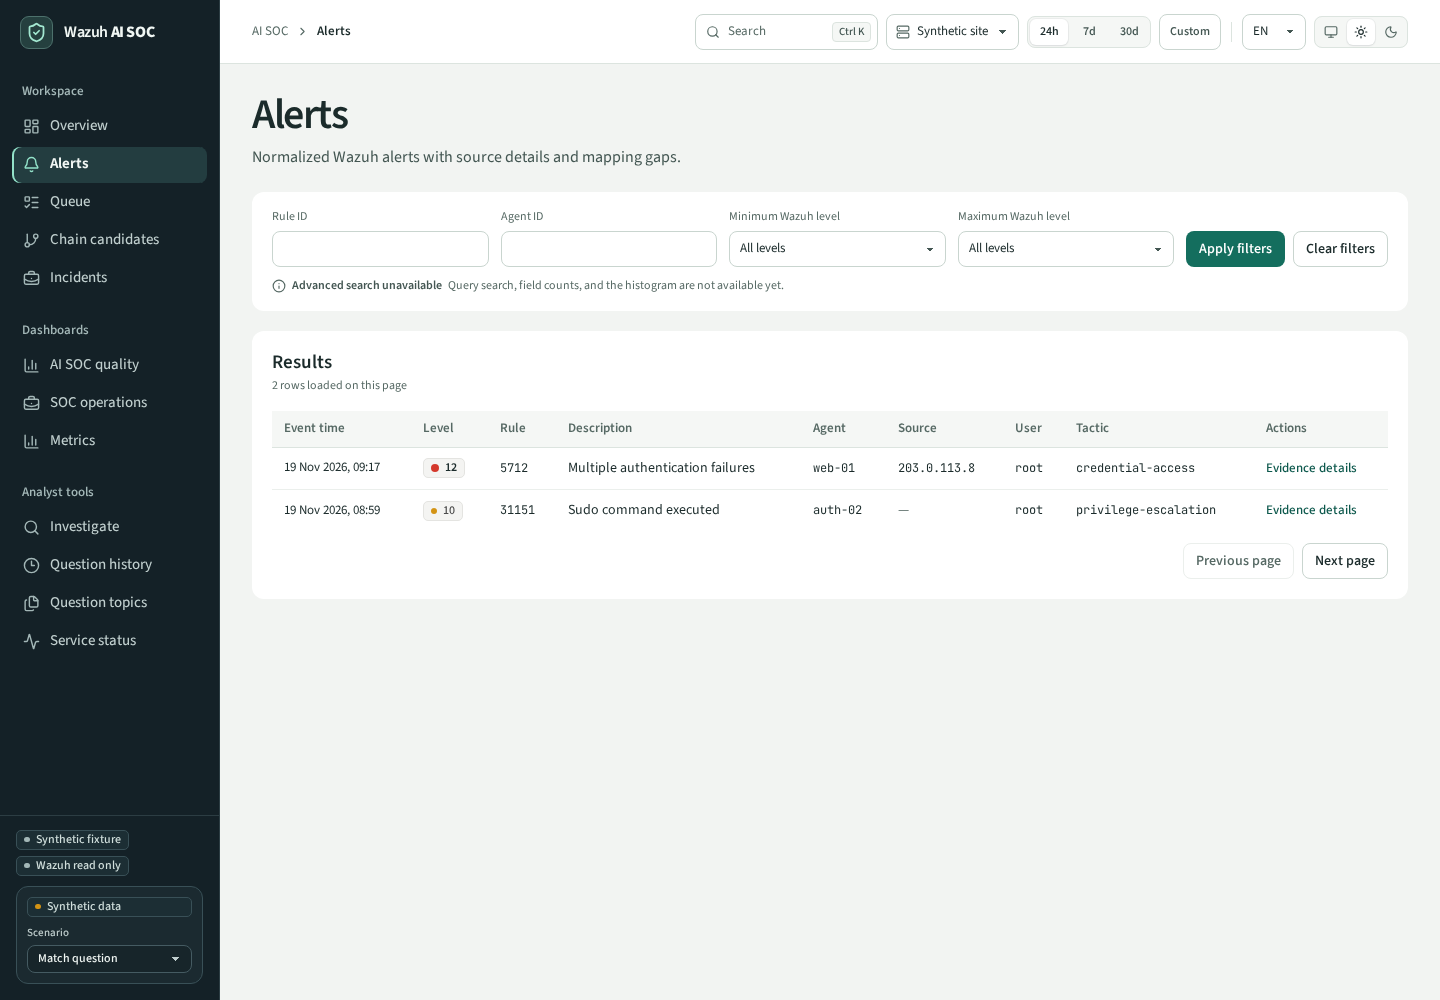
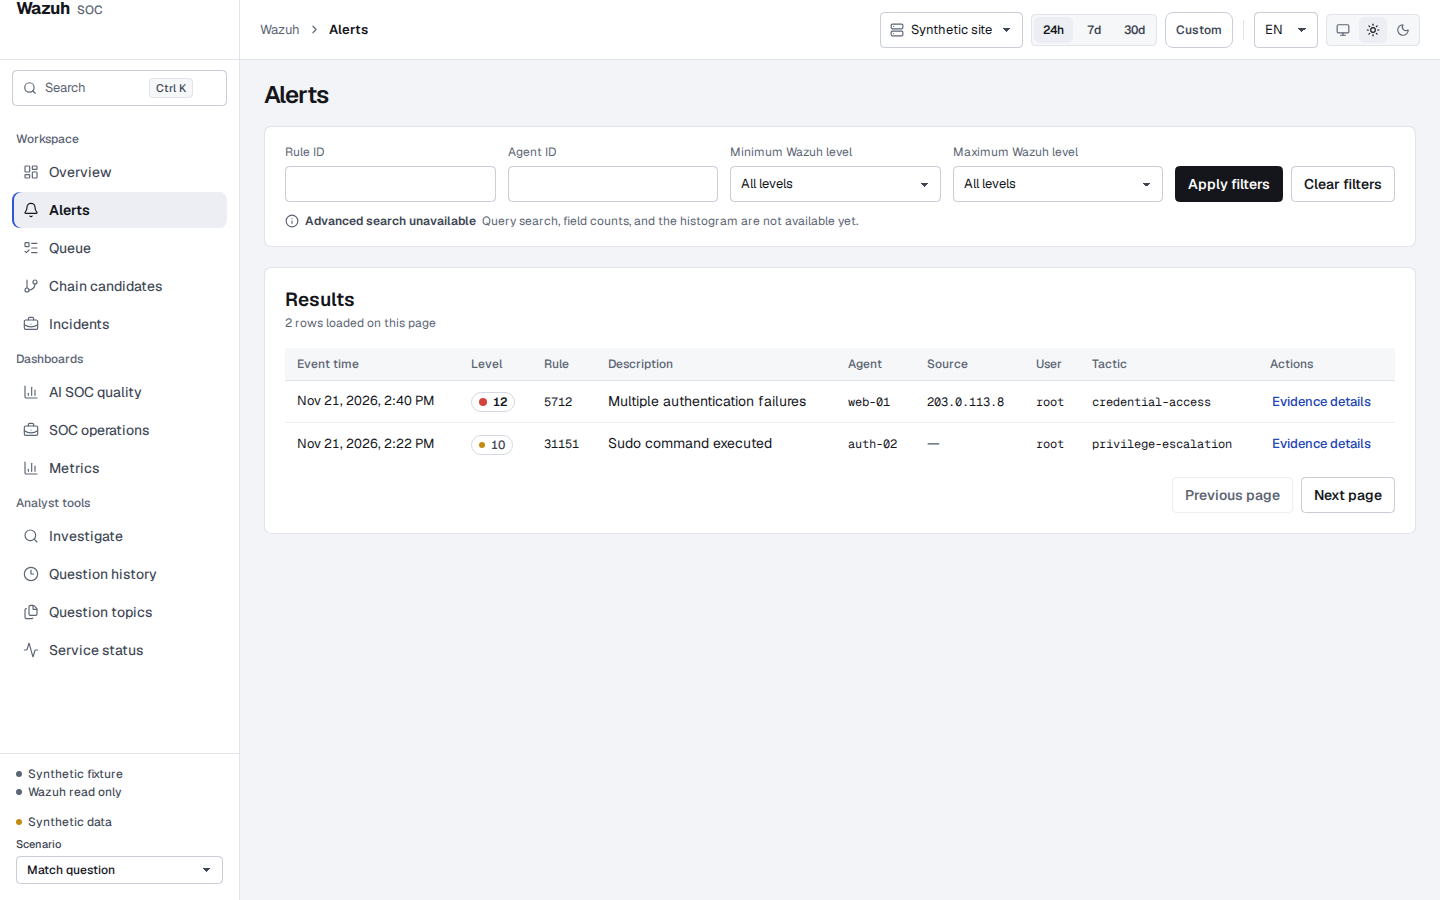
Scale incident titles with the page and refresh the console screenshots.
Chain and incident headings sit at 18px under the page title, and the README captures show the redesigned console.

diff --git a/ai-soc/web/src/features/incidents/incident-v2.css b/ai-soc/web/src/features/incidents/incident-v2.css
@@ -1523,14 +1523,14 @@ section[aria-labelledby="incident-detail-heading"] > .panel-head > h2 {
 }
 .m3-detail .panel-head > h2,
 #chain-detail-heading {
-    font: 600 clamp(1.3rem, 1rem + 0.7vw, 1.8rem) / 1.18 var(--font-display);
+    font: 600 18px/1.3 var(--font-ui);
+    letter-spacing: -0.02em;
 }
 .m3-detail > section > h3,
 .m3-detail > .m3-two-column > section > h3,
 .m3-detail > .m3-actions > .m3-actions-title,
 .m3-narrative > .panel-head h3 {
-    font-family: var(--font-display);
-    font-weight: 600;
+    font: 600 14px/1.4 var(--font-ui);
 }
 .m3-list-item[aria-current="true"] {
     background: var(--hover);
